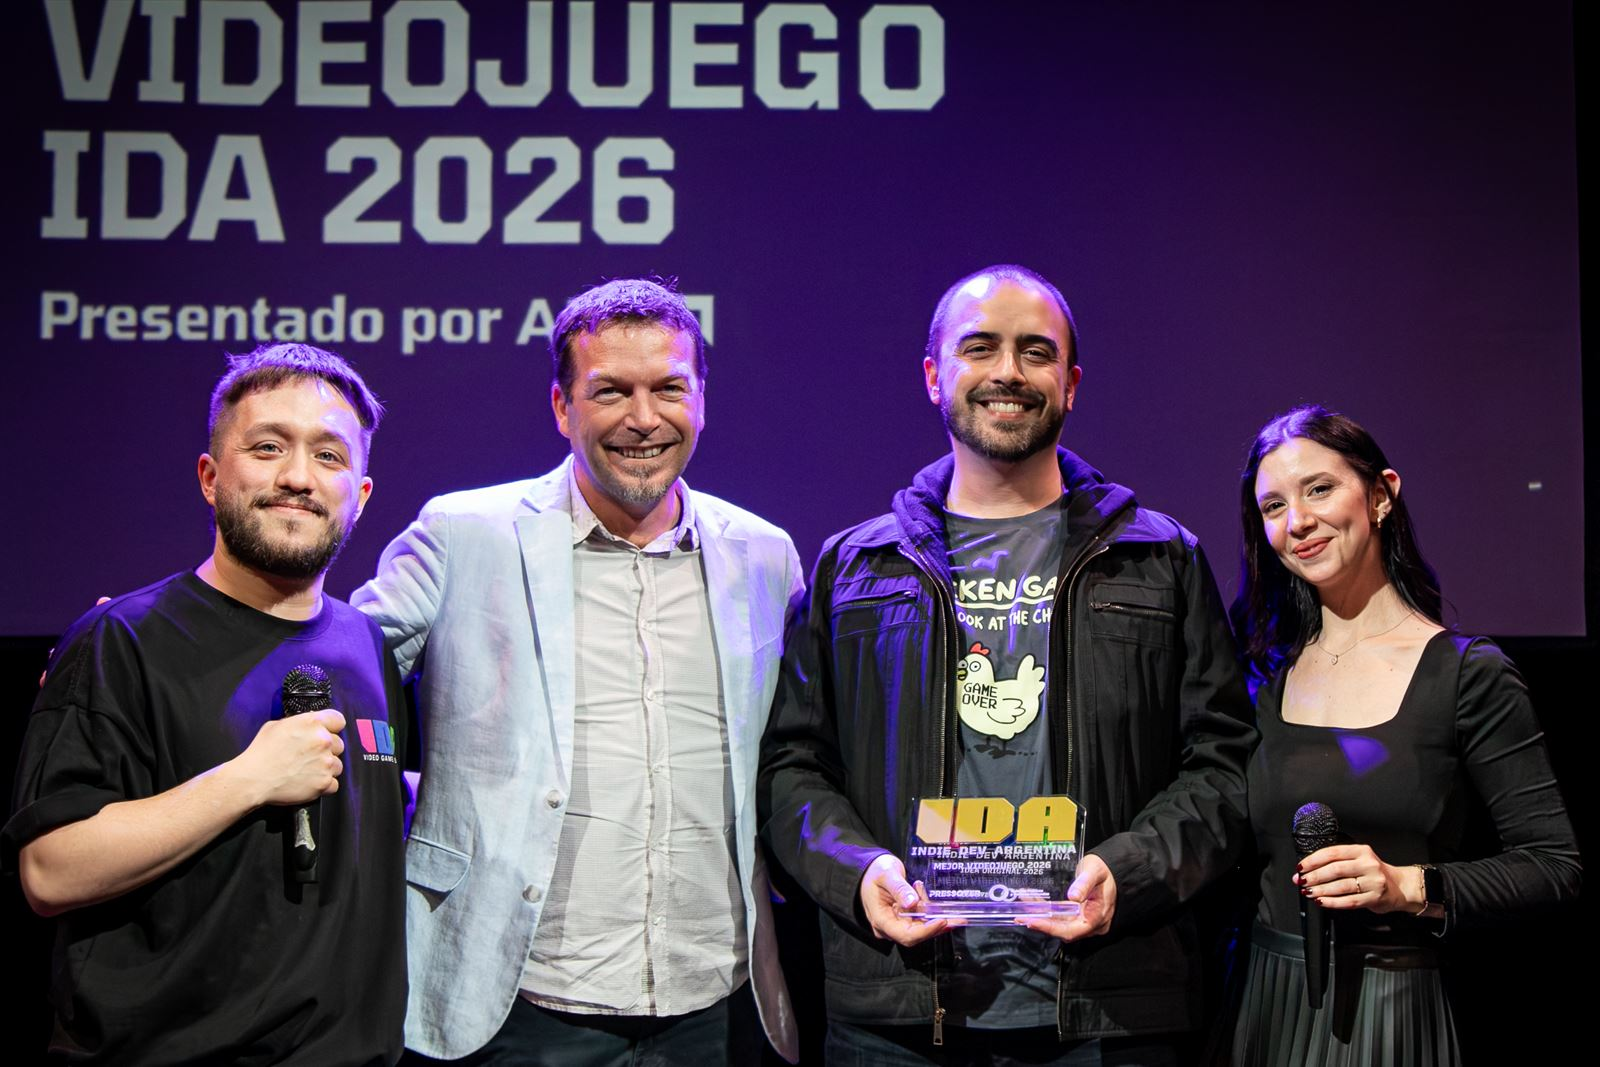
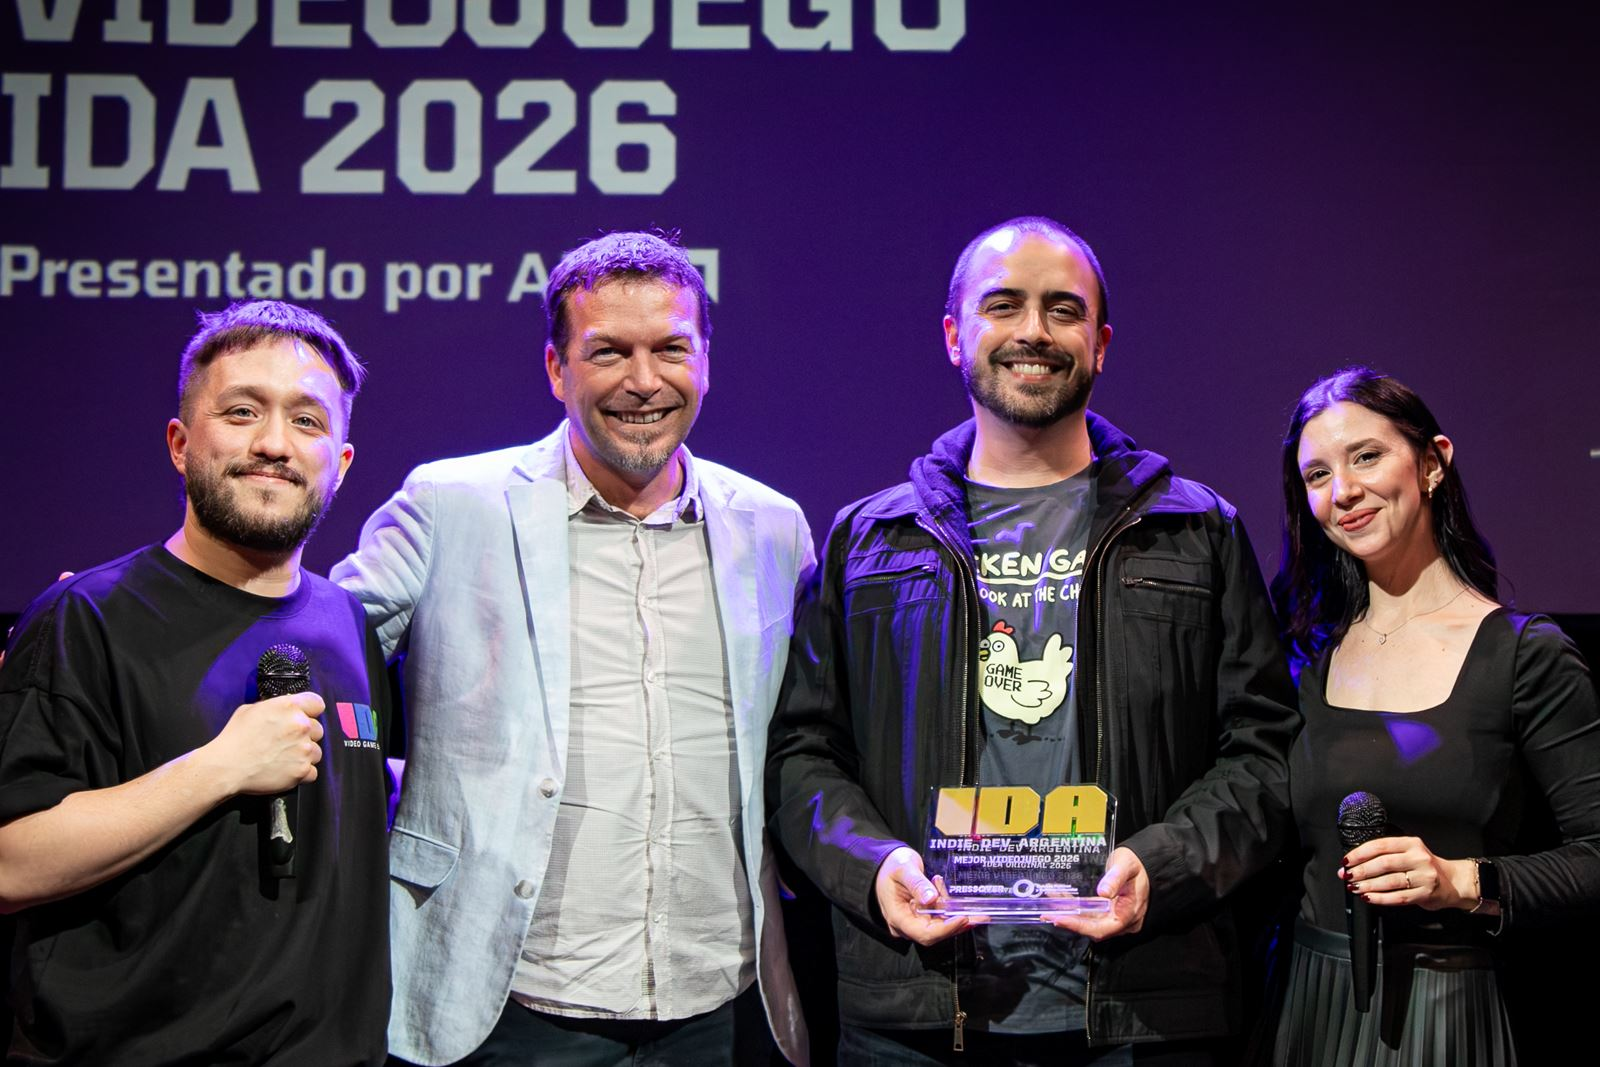
Premios: textos nuevos de De la convocatoria al escenario y foto de la entrega recortada pareja

diff --git a/premios.html b/premios.html
@@ -16,7 +16,7 @@
   <link rel="preconnect" href="https://fonts.googleapis.com">
   <link rel="preconnect" href="https://fonts.gstatic.com" crossorigin>
   <link href="https://fonts.googleapis.com/css2?family=Saira+Condensed:wght@700;800&family=Anton&family=Tomorrow:wght@500;600;700&family=DM+Sans:ital,opsz,wght@0,9..40,400;0,9..40,500;0,9..40,700;1,9..40,400&display=swap" rel="stylesheet">
-  <link rel="stylesheet" href="css/style.css?v=202611082102">
+  <link rel="stylesheet" href="css/style.css?v=202611082112">
 </head>
 <body data-page="premios" data-title-es="Premios IDA · Indie Dev Argentina" data-title-en="IDA Awards · Indie Dev Argentina">
 
@@ -46,10 +46,10 @@
       <div>
         <h2 class="display">De la convocatoria al escenario</h2>
         <ul class="topics">
-          <li><b>El showcase</b> – Participan los videojuegos seleccionados para el showcase de cada edición.</li>
-          <li><b>Las categorías</b> – Se anuncian antes del evento, junto con el jurado.</li>
-          <li><b>La gala</b> – Los ganadores se conocen en la entrega de premios, sobre el escenario principal.</li>
-          <li><b>Rumbo a EVA</b> – En 2026, los ganadores tuvieron un lugar asegurado en el showcase de EVA, gracias a ADVA.</li>
+          <li><b>Los nominados</b> – Participan todos los videojuegos seleccionados para competir en las distintas categorías de premiación de cada edición.</li>
+          <li><b>Las categorías y el jurado</b> – Antes del evento se anuncian las categorías y los integrantes del jurado encargado de evaluar los videojuegos nominados.</li>
+          <li><b>La gala de premiación</b> – Los ganadores de cada categoría se dan a conocer durante la ceremonia de entrega de premios, sobre el escenario principal de IDA.</li>
+          <li><b>Rumbo a EVA</b> – En 2026, los videojuegos ganadores obtuvieron un lugar asegurado en el showcase de EVA (Exposición de Videojuegos Argentina), gracias a ADVA.</li>
         </ul>
       </div>
       <img class="split__img" src="img/photos/aw26-01-800.jpg" srcset="img/photos/aw26-01-800.jpg 800w, img/photos/aw26-01.jpg 1600w" sizes="(max-width: 960px) 100vw, 45vw" alt="Entrega del premio a Mejor Videojuego de IDA 2026" loading="lazy" width="800" height="533">
@@ -60,9 +60,9 @@
 
 <div id="v2-foot"></div>
 
-<script src="data/ediciones.js?v=202611082102"></script>
-<script src="js/i18n.js?v=202611082102"></script>
-<script src="js/textos.js?v=202611082102"></script>
-<script src="js/main.js?v=202611082102"></script>
+<script src="data/ediciones.js?v=202611082112"></script>
+<script src="js/i18n.js?v=202611082112"></script>
+<script src="js/textos.js?v=202611082112"></script>
+<script src="js/main.js?v=202611082112"></script>
 </body>
 </html>

diff --git a/index.html b/index.html
@@ -16,7 +16,7 @@
   <link rel="preconnect" href="https://fonts.googleapis.com">
   <link rel="preconnect" href="https://fonts.gstatic.com" crossorigin>
   <link href="https://fonts.googleapis.com/css2?family=Saira+Condensed:wght@700;800&family=Anton&family=Tomorrow:wght@500;600;700&family=DM+Sans:ital,opsz,wght@0,9..40,400;0,9..40,500;0,9..40,700;1,9..40,400&display=swap" rel="stylesheet">
-  <link rel="stylesheet" href="css/style.css?v=202611082102">
+  <link rel="stylesheet" href="css/style.css?v=202611082112">
 </head>
 <body data-page="home" data-title-es="IDA · Indie Dev Argentina · Exposición de videojuegos independientes" data-title-en="IDA · Indie Dev Argentina · Independent videogame expo">
 
@@ -196,9 +196,9 @@
 <!-- Pie ("Gracias por jugar", hashtag y redes): lo arma js/main.js -->
 <div id="v2-foot"></div>
 
-<script src="data/ediciones.js?v=202611082102"></script>
-<script src="js/i18n.js?v=202611082102"></script>
-<script src="js/textos.js?v=202611082102"></script>
-<script src="js/main.js?v=202611082102"></script>
+<script src="data/ediciones.js?v=202611082112"></script>
+<script src="js/i18n.js?v=202611082112"></script>
+<script src="js/textos.js?v=202611082112"></script>
+<script src="js/main.js?v=202611082112"></script>
 </body>
 </html>

diff --git a/ediciones.html b/ediciones.html
@@ -16,7 +16,7 @@
   <link rel="preconnect" href="https://fonts.googleapis.com">
   <link rel="preconnect" href="https://fonts.gstatic.com" crossorigin>
   <link href="https://fonts.googleapis.com/css2?family=Saira+Condensed:wght@700;800&family=Anton&family=Tomorrow:wght@500;600;700&family=DM+Sans:ital,opsz,wght@0,9..40,400;0,9..40,500;0,9..40,700;1,9..40,400&display=swap" rel="stylesheet">
-  <link rel="stylesheet" href="css/style.css?v=202611082102">
+  <link rel="stylesheet" href="css/style.css?v=202611082112">
 </head>
 <body data-page="ediciones" data-title-es="Ediciones · IDA · Indie Dev Argentina" data-title-en="Editions · IDA · Indie Dev Argentina">
 
@@ -61,9 +61,9 @@
 
 <div id="v2-foot"></div>
 
-<script src="data/ediciones.js?v=202611082102"></script>
-<script src="js/i18n.js?v=202611082102"></script>
-<script src="js/textos.js?v=202611082102"></script>
-<script src="js/main.js?v=202611082102"></script>
+<script src="data/ediciones.js?v=202611082112"></script>
+<script src="js/i18n.js?v=202611082112"></script>
+<script src="js/textos.js?v=202611082112"></script>
+<script src="js/main.js?v=202611082112"></script>
 </body>
 </html>

diff --git a/sponsors.html b/sponsors.html
@@ -16,7 +16,7 @@
   <link rel="preconnect" href="https://fonts.googleapis.com">
   <link rel="preconnect" href="https://fonts.gstatic.com" crossorigin>
   <link href="https://fonts.googleapis.com/css2?family=Saira+Condensed:wght@700;800&family=Anton&family=Tomorrow:wght@500;600;700&family=DM+Sans:ital,opsz,wght@0,9..40,400;0,9..40,500;0,9..40,700;1,9..40,400&display=swap" rel="stylesheet">
-  <link rel="stylesheet" href="css/style.css?v=202611082102">
+  <link rel="stylesheet" href="css/style.css?v=202611082112">
 </head>
 <body data-page="sponsors" data-title-es="Sponsors · IDA · Indie Dev Argentina" data-title-en="Sponsors · IDA · Indie Dev Argentina">
 
@@ -148,9 +148,9 @@
 
 <div id="v2-foot"></div>
 
-<script src="data/ediciones.js?v=202611082102"></script>
-<script src="js/i18n.js?v=202611082102"></script>
-<script src="js/textos.js?v=202611082102"></script>
-<script src="js/main.js?v=202611082102"></script>
+<script src="data/ediciones.js?v=202611082112"></script>
+<script src="js/i18n.js?v=202611082112"></script>
+<script src="js/textos.js?v=202611082112"></script>
+<script src="js/main.js?v=202611082112"></script>
 </body>
 </html>
